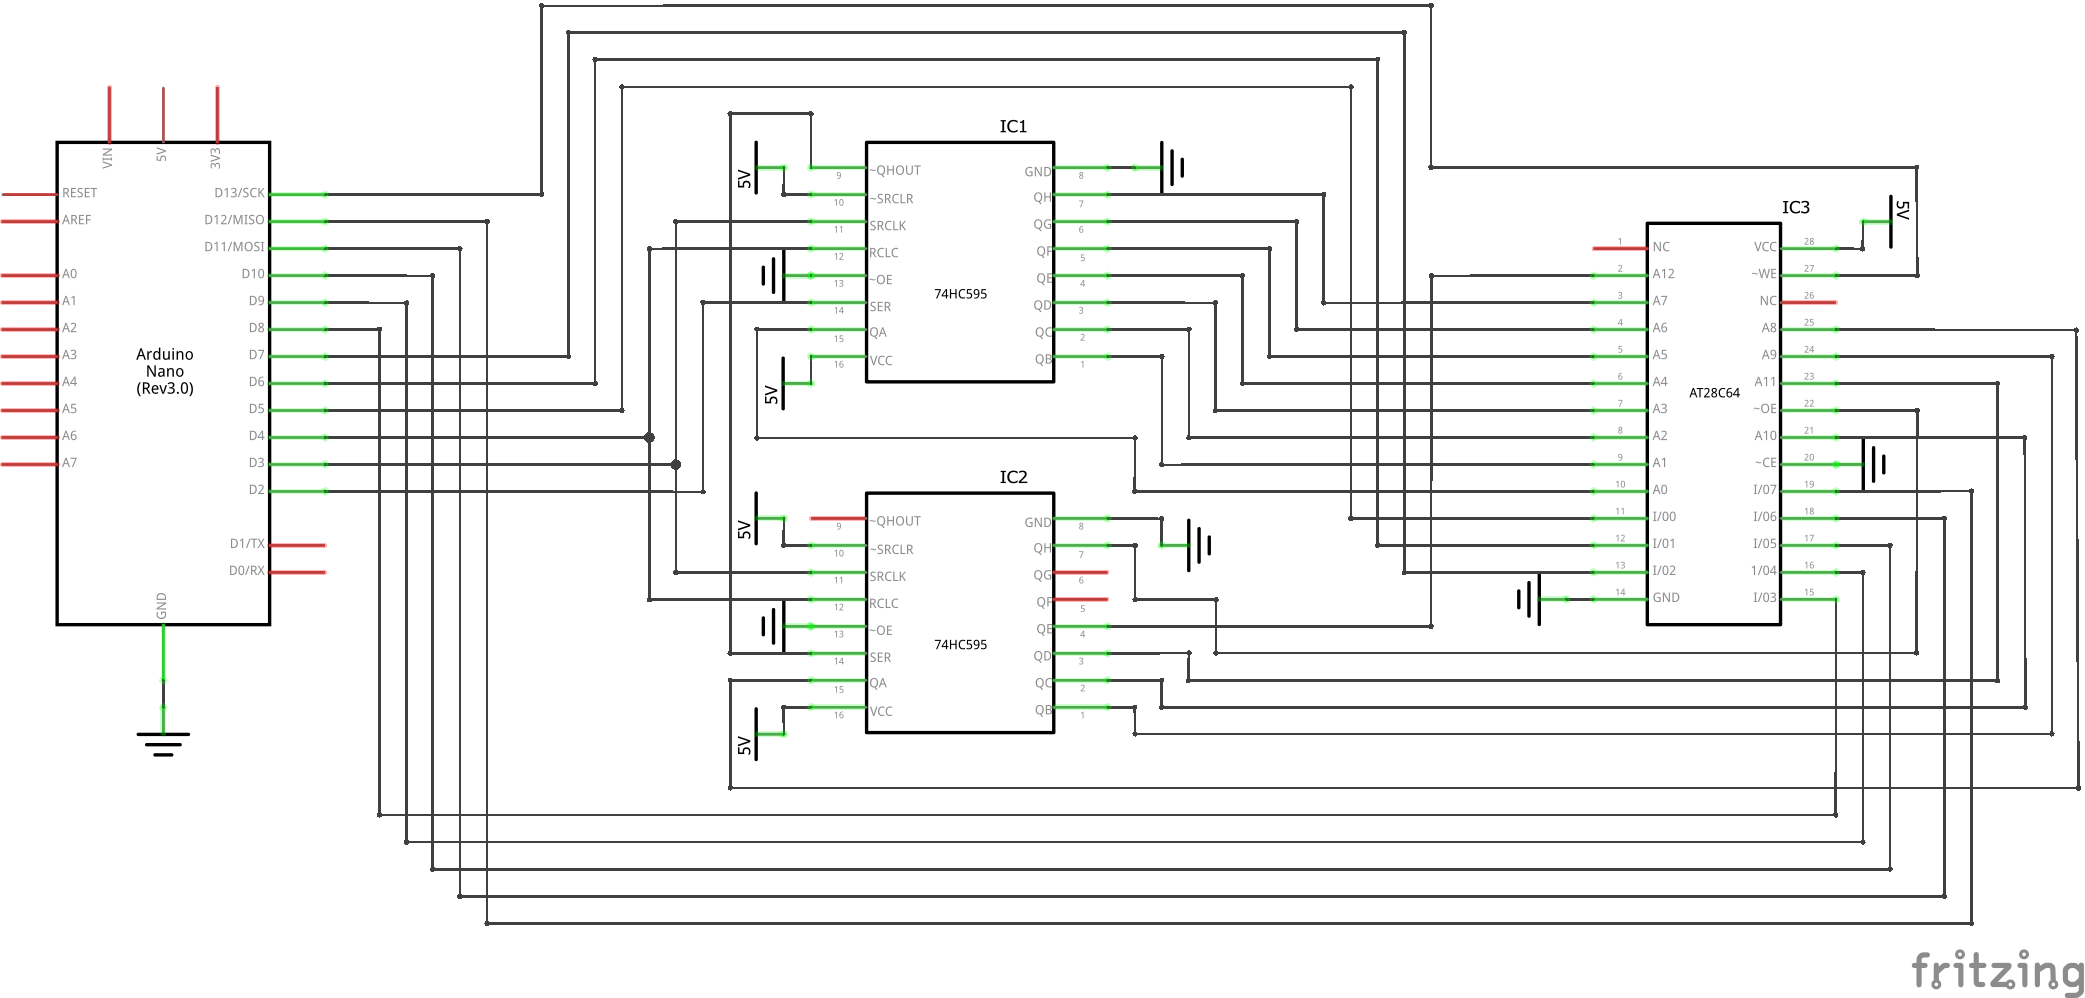
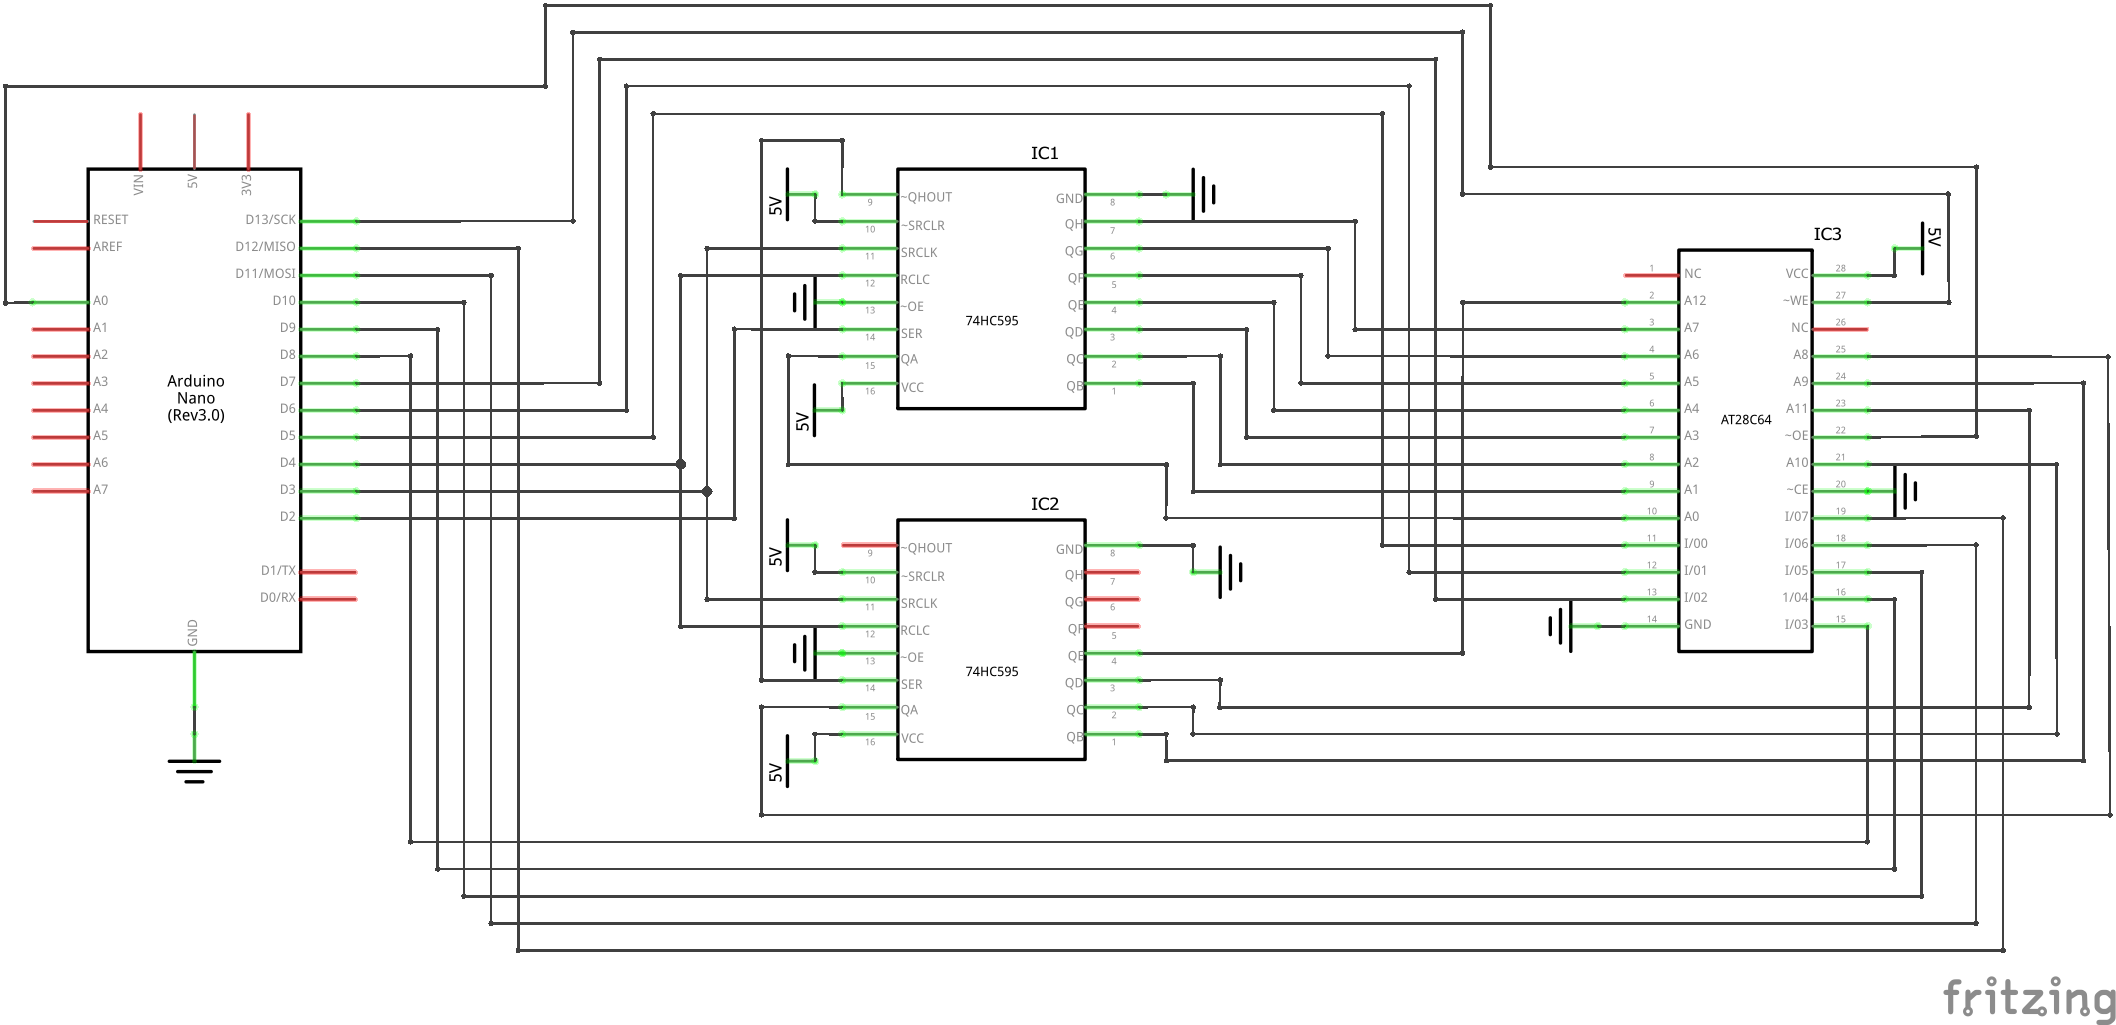
Moved OE onto its own pin

Changed region(s): [[0.0, 0.0, 0.9976, 0.9319], [0.9041, 0.9629, 1.0, 1.0]]

diff --git a/arduino/Programmer.cpp b/arduino/Programmer.cpp
@@ -8,6 +8,7 @@ using namespace EEPROMProgrammer;
 #define EEPROM_D0 5
 #define EEPROM_D7 12
 #define EEPROM_WE 13
+#define EEPROM_OE 14
 
 Programmer::Programmer()
 {
@@ -16,13 +17,22 @@ Programmer::Programmer()
     pinMode(SHIFT_LATCH, OUTPUT);
     digitalWrite(EEPROM_WE, HIGH);
     pinMode(EEPROM_WE, OUTPUT);
+    pinMode(EEPROM_OE, OUTPUT);
 }
 
 void Programmer::setAddress(unsigned short address, bool outputEnable)
 {
-    // Or'ing in outputEnable which is not part of the address as we've run out of GPIO pins.
-    shiftOut(SHIFT_DATA, SHIFT_CLK, MSBFIRST, (address >> 8) | (outputEnable ? 0 : 0x80));
+    shiftOut(SHIFT_DATA, SHIFT_CLK, MSBFIRST, (address >> 8));
     shiftOut(SHIFT_DATA, SHIFT_CLK, MSBFIRST, address);
+
+    if (outputEnable)
+    {
+        digitalWrite(EEPROM_OE, LOW);
+    }
+    else
+    {
+        digitalWrite(EEPROM_OE, HIGH);
+    }
 
     // Pulse to latch the shift registers
     digitalWrite(SHIFT_LATCH, LOW);
@@ -55,7 +65,7 @@ void Programmer::writeByte(byte data, unsigned short address)
     digitalWrite(EEPROM_WE, HIGH);
 
     // A completed write is flagged as complete when
-    // the MS-bit is read back is equal to the valu written.
+    // the MS-bit is read back is equal to the value written.
     do
     {
         delay(1);

diff --git a/README.md b/README.md
@@ -2,7 +2,7 @@
 
 This project uses an *Arduino* as a `parallel EEPROM` programmer.
 
-The circuit is [Ben Eater's work](https://github.com/beneater/eeprom-programmer).  The approach to the software component though is rather different.
+The circuit is based heavily on [Ben Eater's work](https://github.com/beneater/eeprom-programmer).  The approach to the software component though is rather different.
 
 Ben included the data to be written to the Arduino in the actual sketch.  This project increases flexibility by adding a client-side application which drives an Arduino sketch via a protocol.
 
